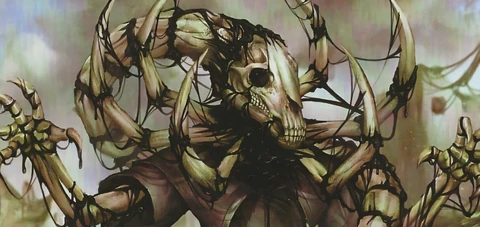
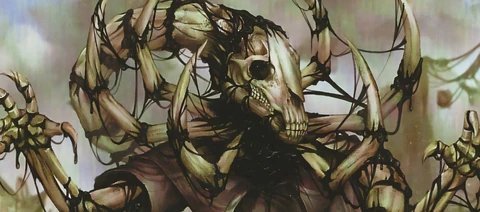
Nemesis button portraits: zoom 9 crop

diff --git a/style.css b/style.css
@@ -149,10 +149,10 @@ body { overflow: hidden; }
 }
 /* Pulsante con illustrazione: un ritaglio dell'illustrazione della nemesi (Assets/nemesis/<slug>-portrait.webp) occupa
    la parte destra del pulsante e sfuma verso sinistra nello sfondo, sotto al nome */
-.nemesis-option.has-art { position: relative; overflow: hidden; min-height: 72px; padding-right: 128px; }
+.nemesis-option.has-art { position: relative; overflow: hidden; min-height: 72px; padding-right: 140px; }
 .nemesis-art {
-  /* Ritaglio dell'illustrazione (480 x 227), alto quanto il pulsante: la larghezza segue la proporzione */
-  position: absolute; top: 0; right: 0; bottom: 0; aspect-ratio: 480 / 227; pointer-events: none;
+  /* Ritaglio dell'illustrazione (480 x 212), alto quanto il pulsante: la larghezza segue la proporzione */
+  position: absolute; top: 0; right: 0; bottom: 0; aspect-ratio: 480 / 212; pointer-events: none;
   background: center / cover no-repeat;
   -webkit-mask-image: linear-gradient(to right, transparent 0%, #000 45%); mask-image: linear-gradient(to right, transparent 0%, #000 45%);
 }

diff --git a/tools/build-nemesis-art.py b/tools/build-nemesis-art.py
@@ -4,7 +4,7 @@ Mettere la scansione della carta nemesi (fronte, come quella di Arachnos) in Ass
 esatto della nemesi come in nemesis.json, per esempio "Assets/nemesis/src/Arachnos.jpg" (JPG, PNG o WebP).
 Gli originali in src/ sono esclusi da git (.gitignore). Per ogni scansione lo script crea:
   - Assets/nemesis/<slug>.webp           la carta intera (larga 1000 px, WebP 90), mostrata quando si sceglie la nemesi
-  - Assets/nemesis/<slug>-portrait.webp  un ritaglio dell'illustrazione (480 x 227), a destra nel pulsante della nemesi
+  - Assets/nemesis/<slug>-portrait.webp  un ritaglio dell'illustrazione (480 x 212), a destra nel pulsante della nemesi
 e scrive Assets/nemesis/nemesis-art.json, l'elenco che l'app legge per sapere quali nemesi hanno l'immagine.
 
 Il ritaglio standard prende la parte alta dell'illustrazione, centrata; se per una nemesi il soggetto sta altrove,
@@ -24,14 +24,14 @@ ROOT = Path(__file__).resolve().parents[1]
 SRC = ROOT / 'Assets' / 'nemesis' / 'src'
 OUT = ROOT / 'Assets' / 'nemesis'
 CARD_WIDTH = 1000
-PORTRAIT = (480, 227)  # circa 2,1:1, la forma del riquadro nel pulsante (style.css: .nemesis-art)
+PORTRAIT = (480, 212)  # circa 2,26:1, la forma del riquadro nel pulsante (style.css: .nemesis-art)
 QUALITY = 90
 
-# Ritaglio standard: la parte alta dell'illustrazione, a metà fra il primo ritaglio (più stretto) e l'illustrazione intera.
+# Ritaglio standard: la parte alta dell'illustrazione, vicina al primo ritaglio (più stretto) ma un po' più larga.
 # L'altezza si calcola dalla proporzione di PORTRAIT (None).
-DEFAULT_CROP = (0.06, 0.047, 0.94, None)
+DEFAULT_CROP = (0.073, 0.06, 0.927, None)
 CROPS = {
-    # 'Arachnos': (0.06, 0.047, 0.94, None),
+    # 'Arachnos': (0.073, 0.06, 0.927, None),
 }
 
 
